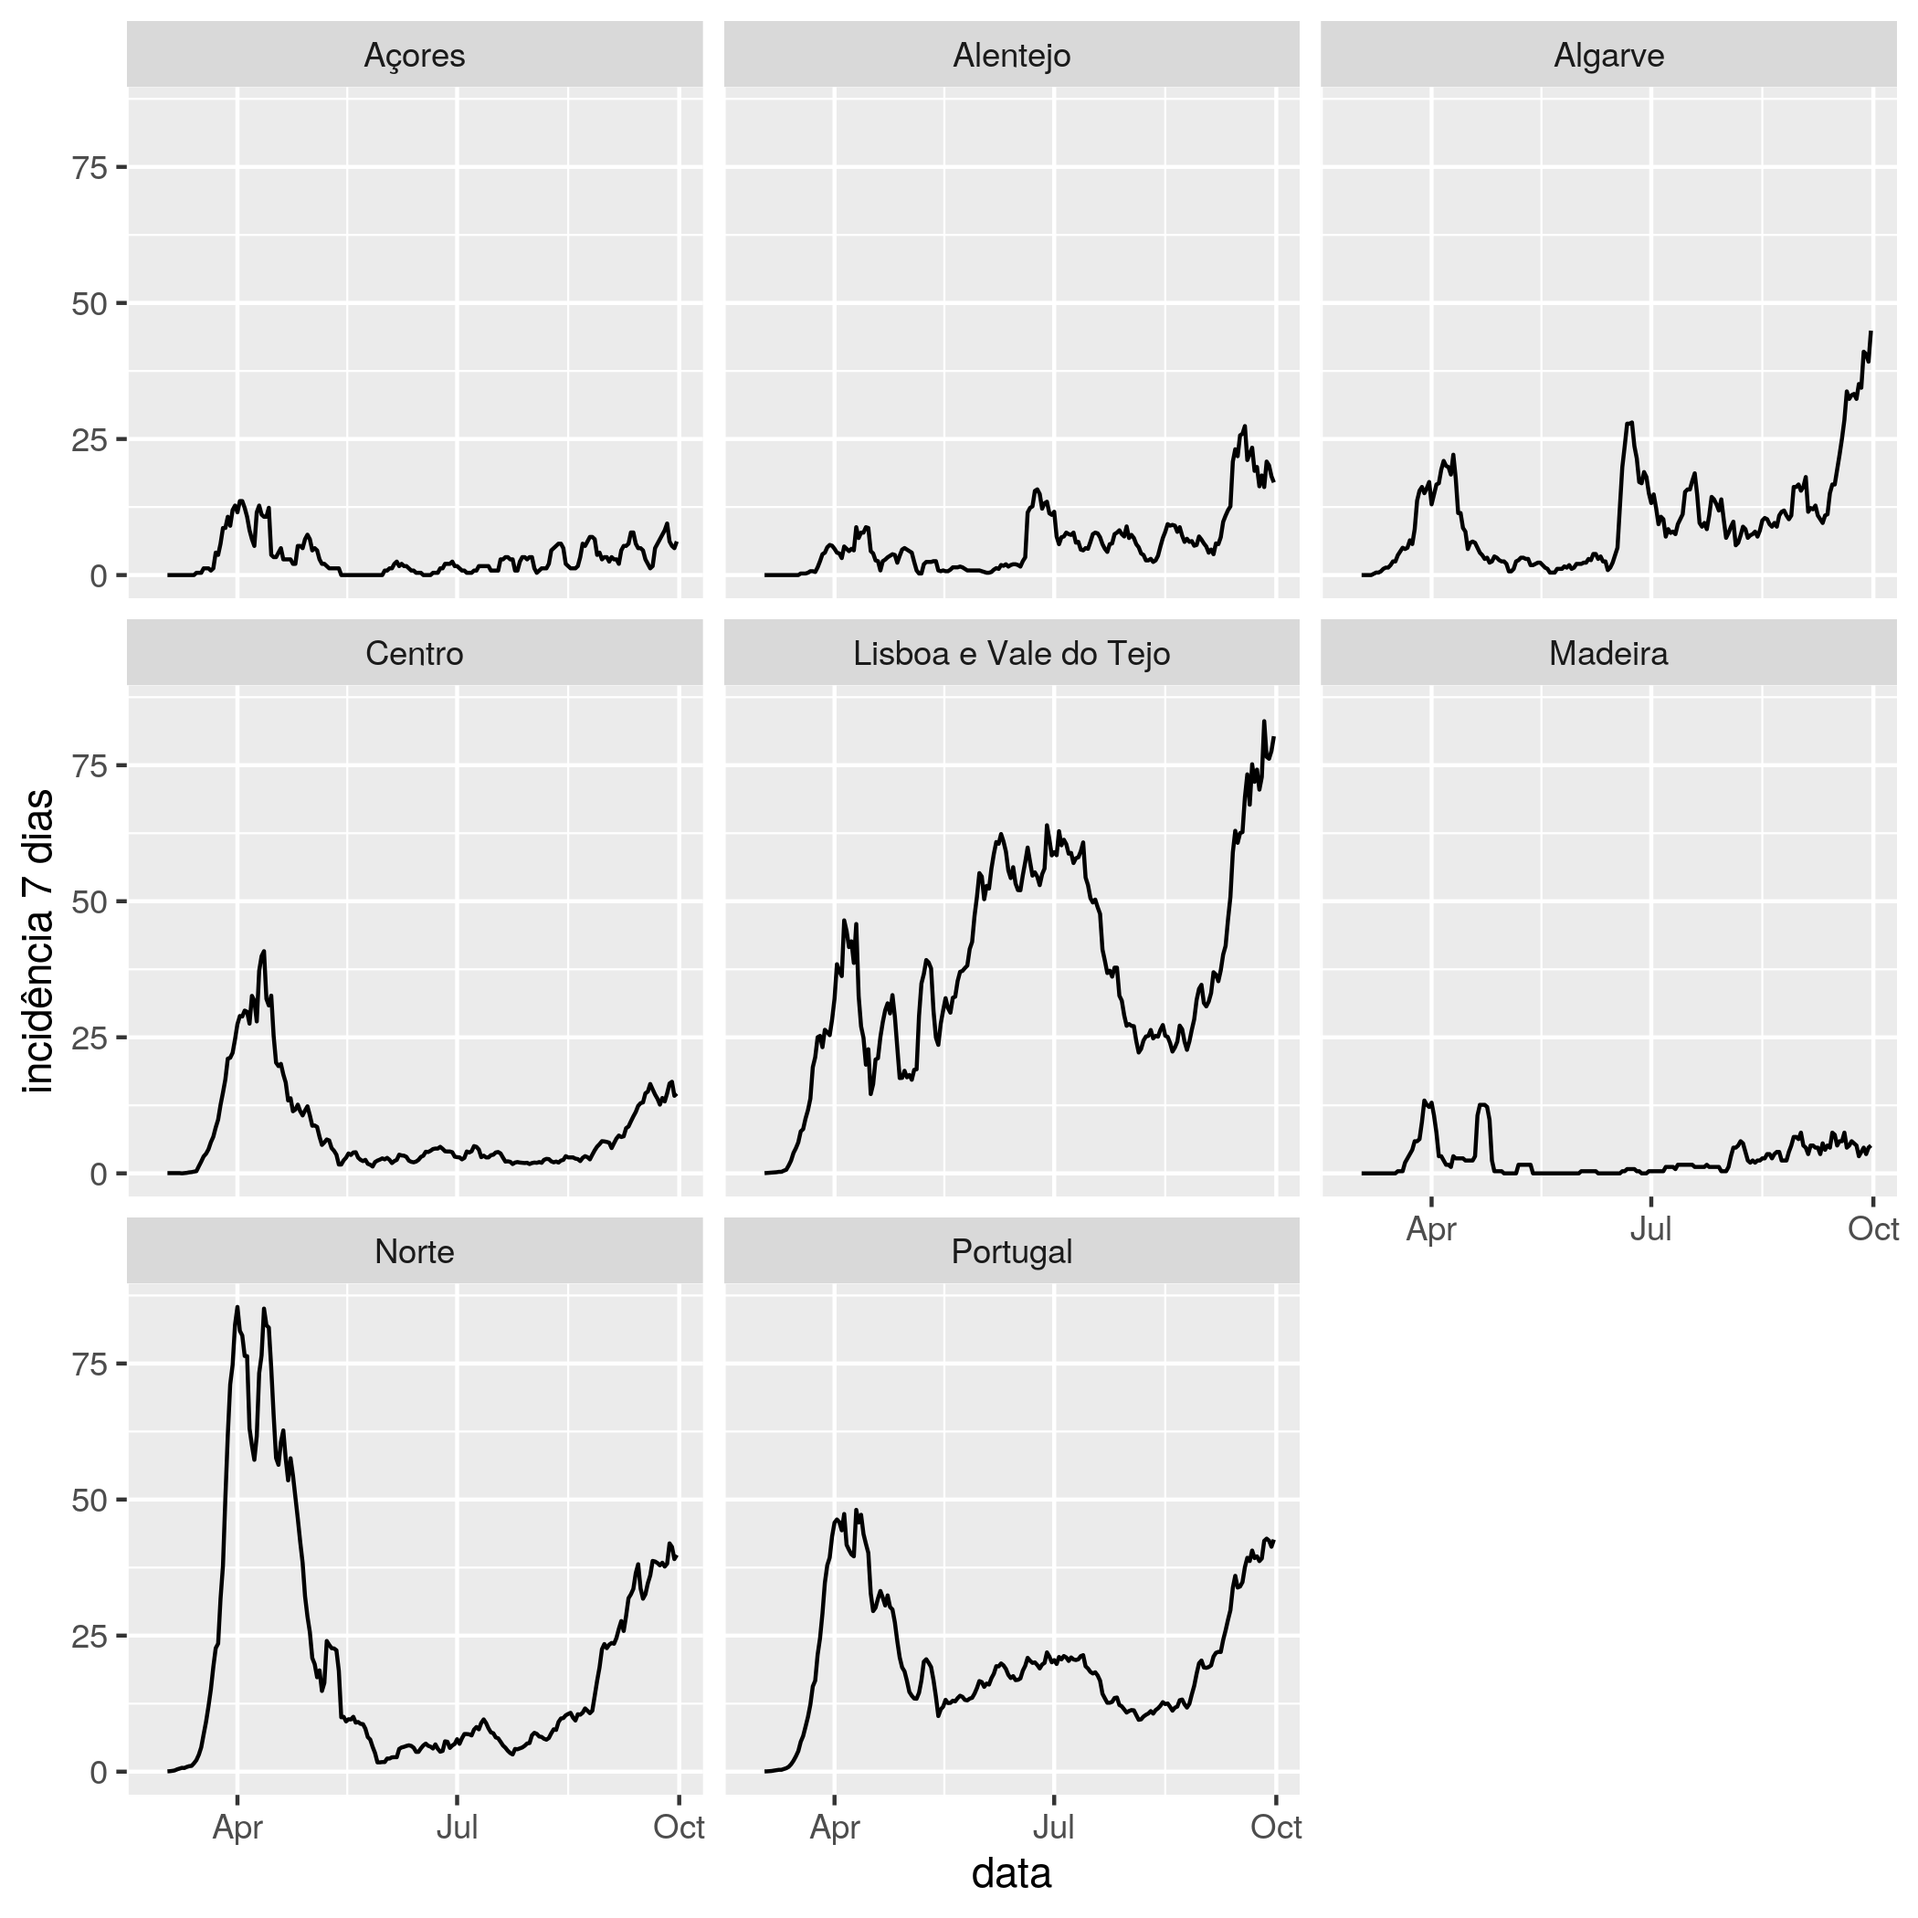
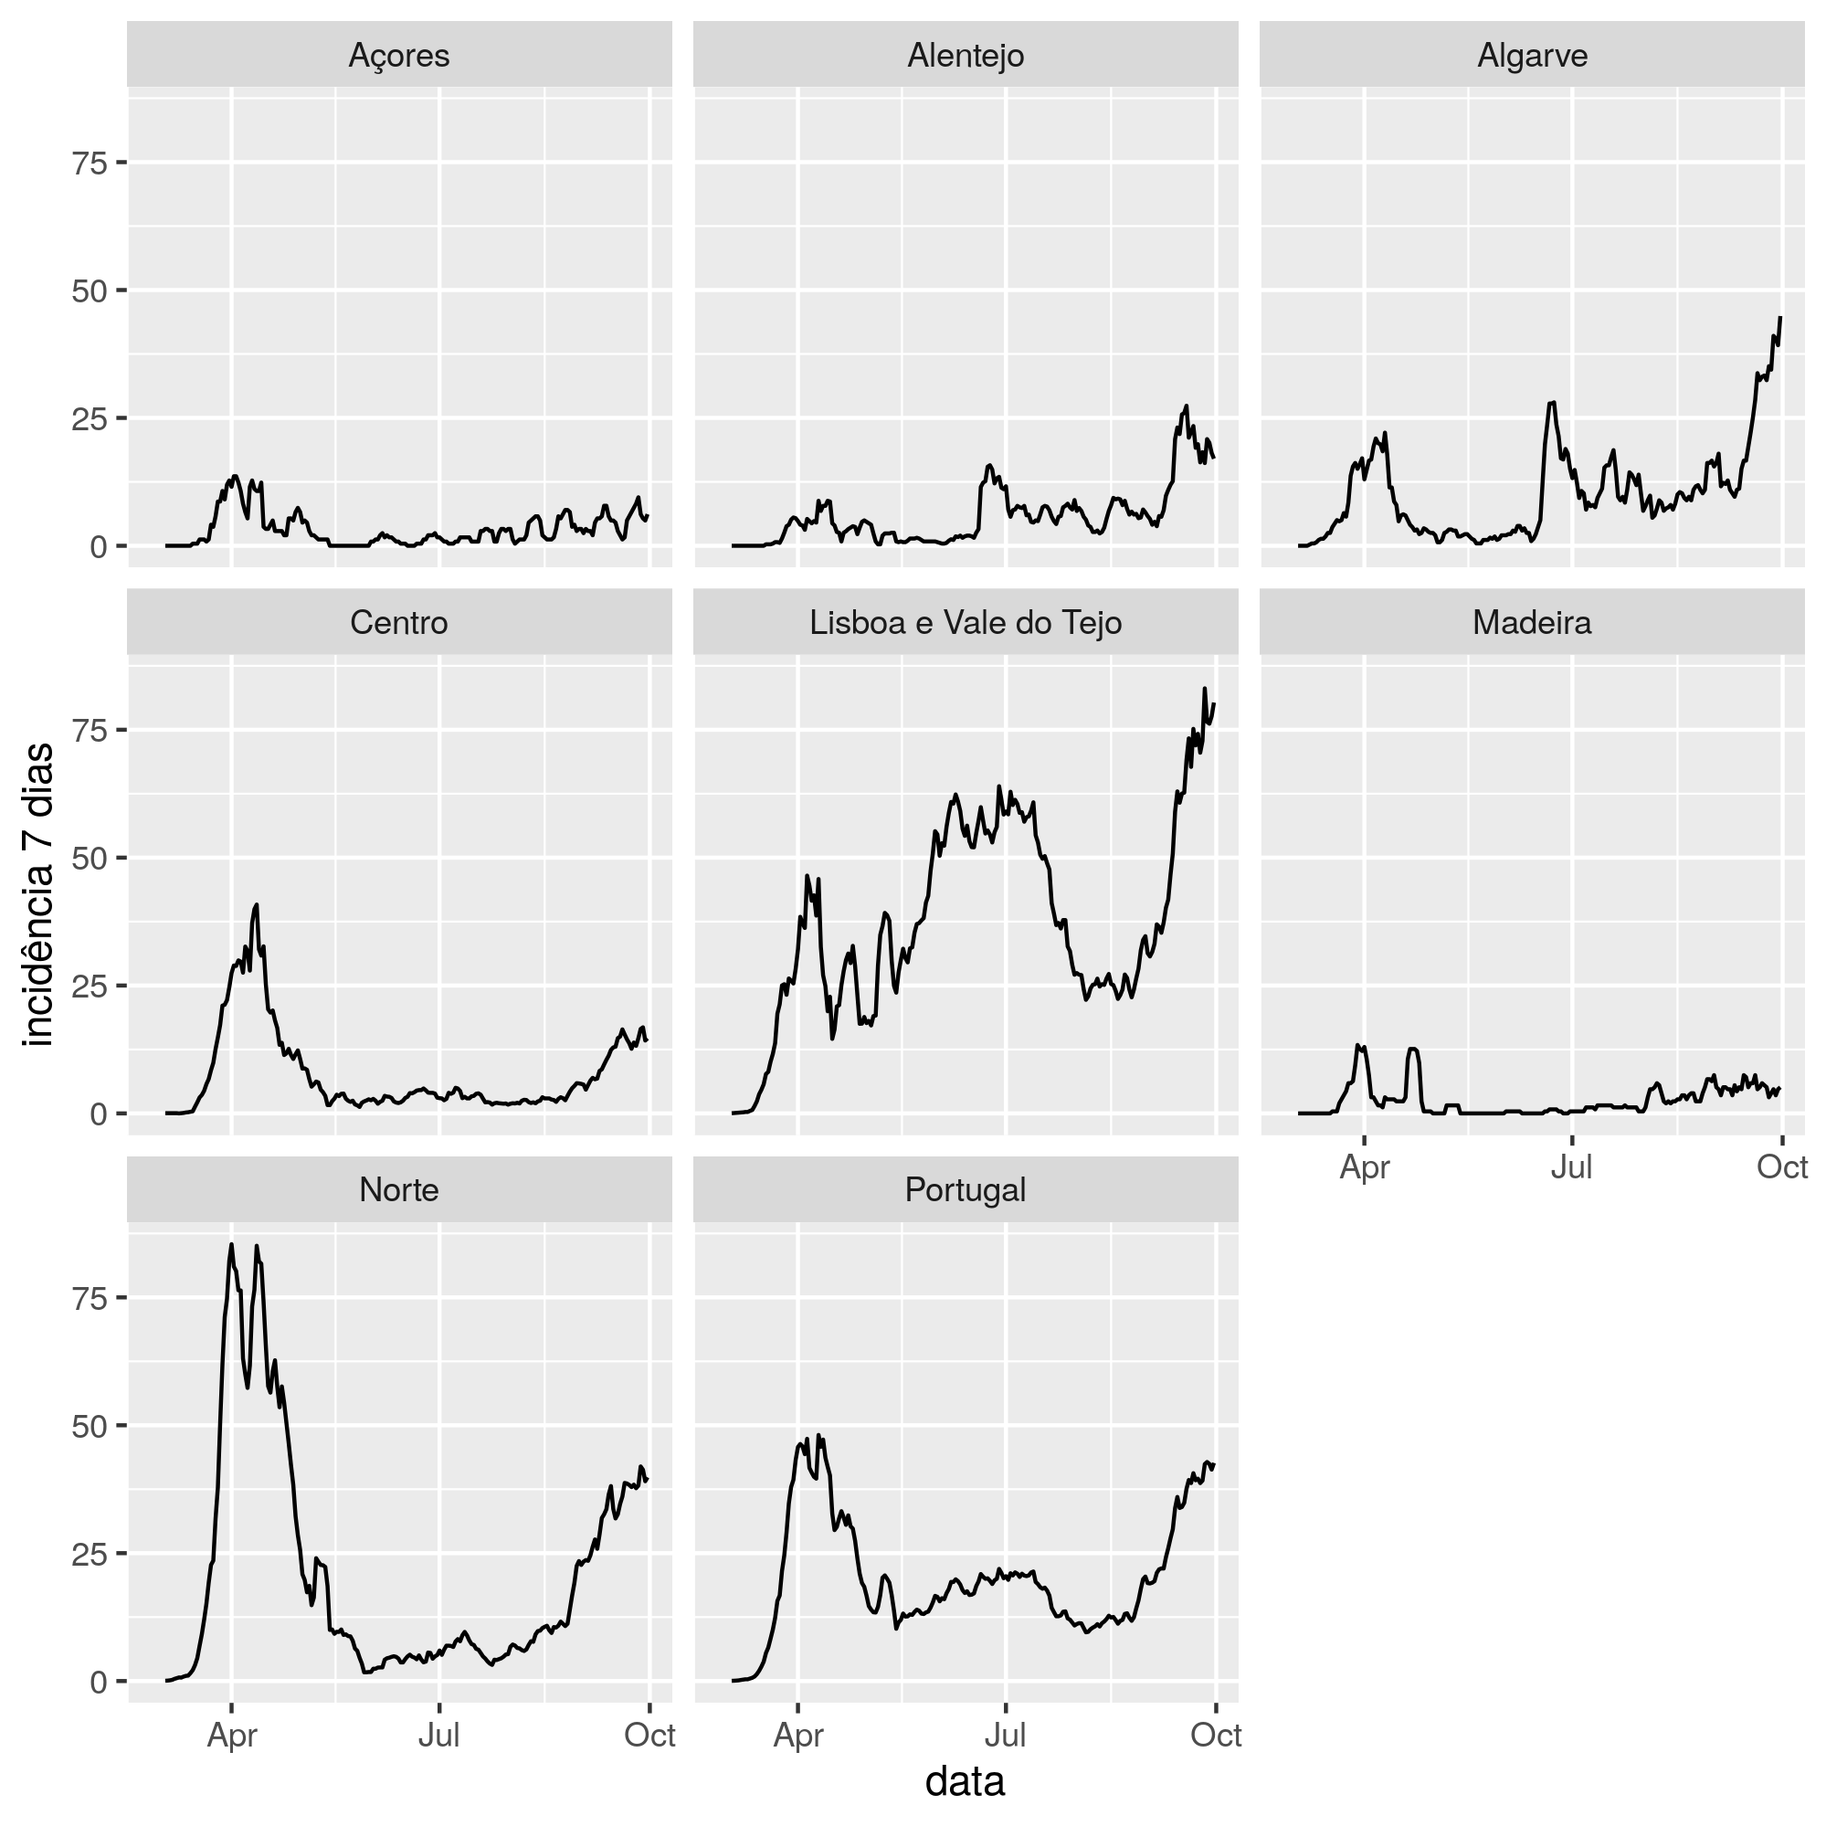
incidencia ultimos 30 dias

diff --git a/README.md b/README.md
@@ -2,6 +2,13 @@
 A incidência por 100000 habitantes em 7 dias é o valor de referência para decretar regiões de risco pelas autoridades de saúde alemãs (valor charneira é 50, ie LVT já é região de risco). Gráficos atualizados diariamente. Para ajudar quem quer viajar para a Alemanha ou vir passar férias a Portugal.
 
 # Incidência por 100000 habitantes em 7 dias
-![alt text](https://github.com/jmigueldelgado/covid-incidence-portugal/blob/master/incidencia.png?raw=true)
+
+## Últimos 30 dias
+
+![alt text](https://github.com/jmigueldelgado/covid-incidence-portugal/blob/master/incidencia_.png?raw=true)
+
+## Desde o início da pandemia
+
+![alt text](https://github.com/jmigueldelgado/covid-incidence-portugal/blob/master/incidencia_ultimos_30_dias.png?raw=true)
 
 Fonte: https://github.com/dssg-pt/covid19pt-data/
